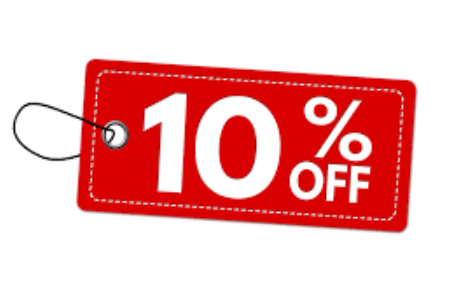
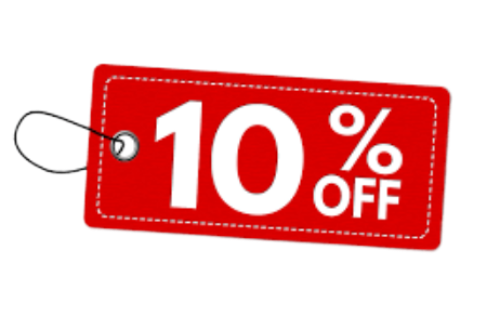
corrigiendo estilos y añadiendo transformaciones

diff --git a/css/estilos.css b/css/estilos.css
@@ -26,7 +26,7 @@
 #header {
   display: flex;
   justify-content: space-between;
-  background-color: rgb(172, 228, 238);
+  background: linear-gradient(to top, rgb(172, 228, 238), rgb(89, 211, 233));
 }
 #header .logocontenedor {
   margin-left: 20px;
@@ -37,7 +37,7 @@
 }
 
 #footer {
-  background-color: rgb(172, 228, 238);
+  background: linear-gradient(rgb(172, 228, 238), rgb(89, 211, 233));
   display: flex;
   flex-wrap: wrap;
   justify-content: center;
@@ -48,6 +48,7 @@
 #footer .CajaMediosDePagos img {
   height: 30px;
   width: 45px;
+  margin-top: 5px;
 }
 #footer .CajaHorariosSeguinos img {
   height: 40px;
@@ -83,7 +84,7 @@ h1 {
 }
 .seccionCajaOfertas .cajaOfertas .imagenOferta {
   height: 70px;
-  width: 100px;
+  width: 110px;
 }
 .seccionCajaOfertas .cajaOfertas div button {
   margin: 5px 0px;
@@ -296,7 +297,7 @@ h1 {
     grid-template-columns: 400px 400px;
     grid-template-areas: "Tit Tit" "Log For";
     margin-top: 20px;
-    margin-bottom: 70px;
+    margin-bottom: 40px;
   }
   #mainContacto .TituloContacto {
     grid-area: Tit;
@@ -317,6 +318,7 @@ h1 {
   #mainContacto {
     display: flex;
     flex-direction: column;
+    margin-bottom: 10px;
   }
   #mainContacto .TituloContacto h1 {
     text-align: center;
@@ -362,25 +364,26 @@ h1 {
     display: flex;
     justify-content: center;
     margin-top: 50px;
-    margin-bottom: 160px;
+    margin-bottom: 100px;
     padding: 40px;
   }
   .alimento2 .cuadrofotodescripcion {
+    display: flex;
+    justify-content: center;
+    align-items: center;
     box-shadow: 0 0 10px gray;
-    text-align: center;
-    padding: 20px;
-    height: 280px;
+    height: 290px;
     width: 385px;
   }
   .alimento2 .cuadrofotodescripcion .imagenOferta2 {
     height: 60px;
     width: 90px;
+    transform: rotate(10deg);
   }
   .alimento2 .cuadrodescripcionprecio {
     box-shadow: 0 0 10px gray;
     text-align: center;
-    padding: 20px;
-    height: 280px;
+    height: 290px;
     width: 620px;
   }
   .alimento2 .cuadrodescripcionprecio p, .alimento2 .cuadrodescripcionprecio h3 {

diff --git a/scss/views/_alimentoperrogato.scss b/scss/views/_alimentoperrogato.scss
@@ -15,24 +15,25 @@
         display: flex;
         justify-content: center;
         margin-top: 50px;
-        margin-bottom: 160px;
+        margin-bottom: 100px;
         padding: 40px;
         .cuadrofotodescripcion{
-            box-shadow: $sombrasbox;
-            text-align: center;
-            padding: 20px;
-            height: 280px;
+            display: flex;
+            justify-content: center;
+            align-items: center;
+            box-shadow: $sombrasbox;            
+            height: 290px;
             width: 385px;
             .imagenOferta2{
                 height: 60px;
                 width: 90px;
+                transform: rotate(10deg);
             }
         }
         .cuadrodescripcionprecio{
             box-shadow: $sombrasbox;
             text-align: center;
-            padding: 20px;
-            height: 280px;
+            height: 290px;
             width: 620px;
             p, h3{
                 margin: 20px;

diff --git a/scss/layout/_footer.scss b/scss/layout/_footer.scss
@@ -1,6 +1,6 @@
 // contenido footer
 #footer{
-    background-color: map-get($color-fondos, primary);
+    background: linear-gradient(map-get($color-fondos, primary),map-get($color-fondos, secondary));
     display: flex;
     flex-wrap: wrap;
     justify-content: center;
@@ -10,6 +10,7 @@
     .CajaMediosDePagos img{
         height: 30px;
         width: 45px;
+        margin-top: 5px;
     }
     .CajaHorariosSeguinos img{
         height: 40px;

diff --git a/scss/views/_contacto.scss b/scss/views/_contacto.scss
@@ -18,7 +18,7 @@
         "Log For"
         ;
         margin-top: 20px;
-        margin-bottom: 70px;
+        margin-bottom: 40px;
         .TituloContacto{
             grid-area: Tit;
             justify-self: center;
@@ -40,6 +40,7 @@
     #mainContacto{
         display: flex;
         flex-direction: column;
+        margin-bottom: 10px;
         .TituloContacto h1{
             text-align: center;
         }

diff --git a/scss/base/_generales.scss b/scss/base/_generales.scss
@@ -12,12 +12,12 @@
 .ofertaoff{
     display: none;
 }
-// imagenes de articulos para aplicar mixin
+// mixin
 @mixin Imagen-Articulo($ancho, $alto){
     width: $ancho;
     height: $alto;
 }
-// atributos botones para aplicar extend
+// extend
 %atributos-botones{
     background-color: map-get($color-fondos, primary);
     border: 1px solid map-get($color-fondos, primary);

diff --git a/scss/layout/_header.scss b/scss/layout/_header.scss
@@ -2,7 +2,7 @@
 #header{
     display: flex;
     justify-content: space-between;
-    background-color: map-get($color-fondos, primary);
+    background: linear-gradient(to top, map-get($color-fondos, primary),map-get($color-fondos, secondary));
     .logocontenedor{
         margin-left: 20px;
         .logo{

diff --git a/scss/views/_home.scss b/scss/views/_home.scss
@@ -14,7 +14,7 @@ h1{
         }
         .imagenOferta{
             height: 70px;
-            width: 100px;
+            width: 110px;
         }
         display: flex;
         flex-direction: column;

diff --git a/scss/_variables.scss b/scss/_variables.scss
@@ -1,6 +1,7 @@
-// Variables
+// mapas
 $color-fondos:(
     primary:rgb(172, 228, 238),
     secondary: rgb(89, 211, 233)
 );
+// Variables
 $sombrasbox : 0 0 10px gray;
